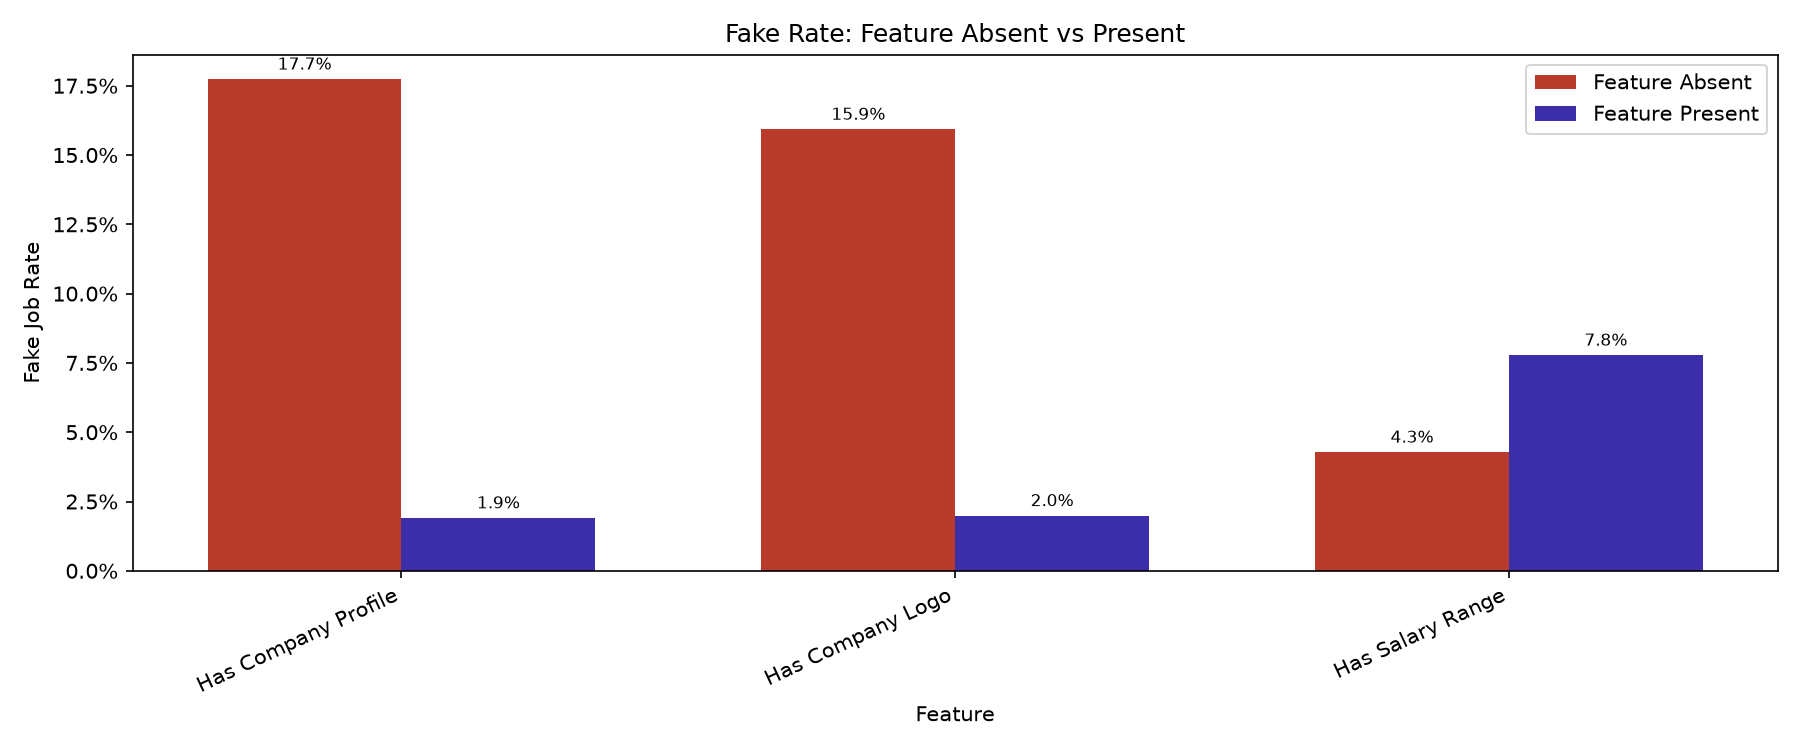
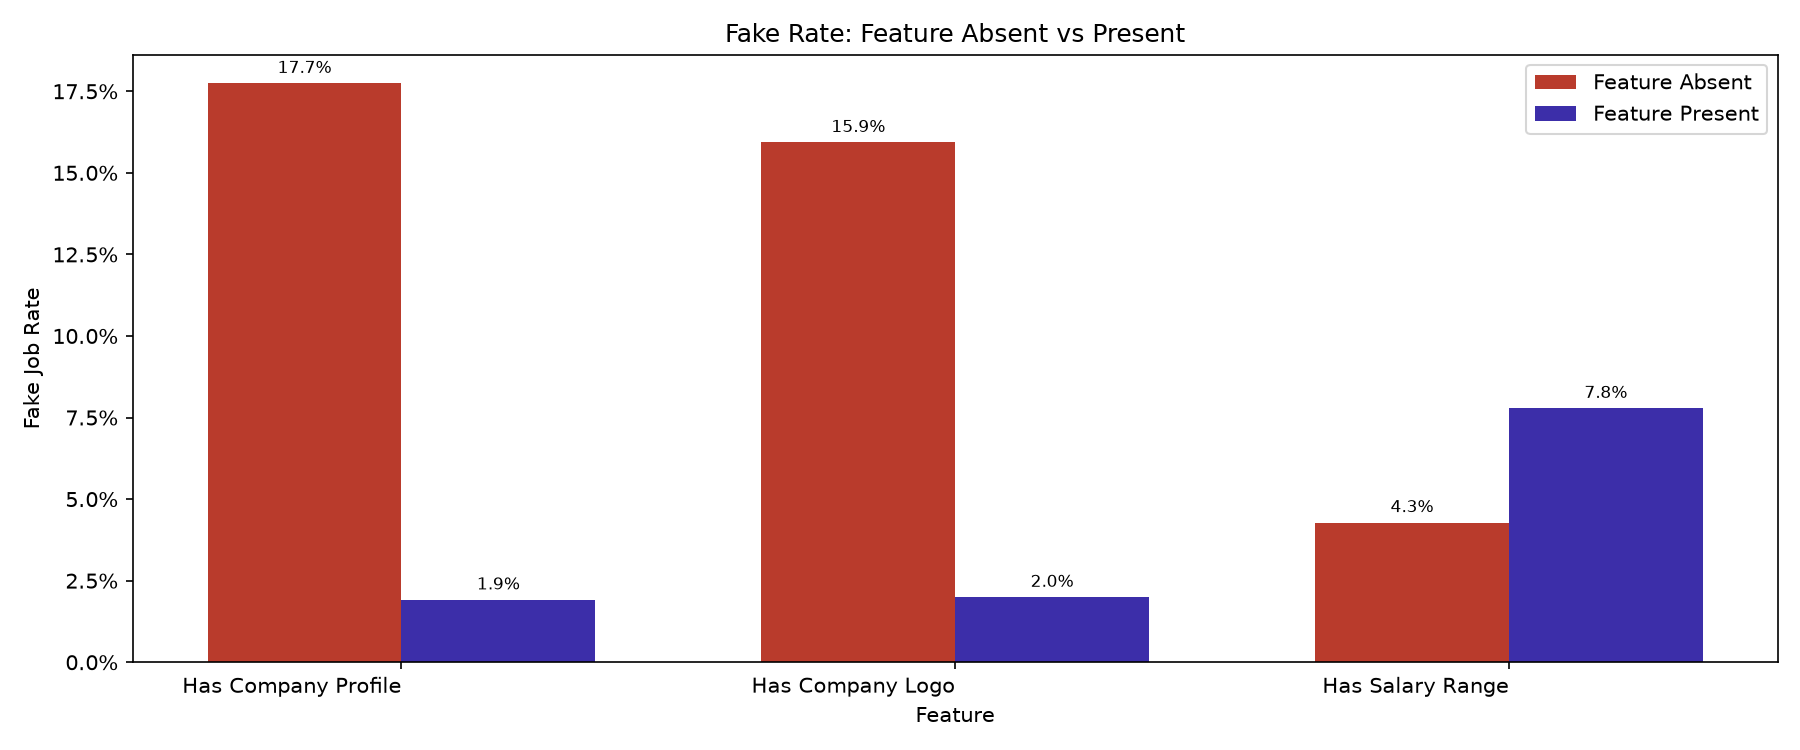
Add DistilBERT fine-tuning notebook and integrate fine-tuned model alongside baseline in app.py

diff --git a/app.py b/app.py
@@ -8,7 +8,11 @@ from src.features import (
     SUSPICIOUS_TITLE_KEYWORDS,
     SUSPICIOUS_DESC_KEYWORDS
 )
-from src.model import load_baseline_model, predict_baseline
+from src.model import (
+    load_baseline_model, predict_baseline,
+    load_distilbert_model, predict_distilbert,
+    load_optimal_threshold, build_distilbert_text
+)
 from src.explainer import (
     find_red_flags,
     highlight_text,
@@ -20,17 +24,17 @@ from src.explainer import (
 # ──────────────────────────────────────────────────────────────
 
 st.set_page_config(
-    page_title="JobGuard",
+    page_title="Fake Job Detector",
     page_icon="🛡️",
     layout="centered"
 )
 
 # ──────────────────────────────────────────────────────────────
-# Load Model
+# Load Models
 # ──────────────────────────────────────────────────────────────
 
 @st.cache_resource
-def get_model():
+def get_baseline_model():
     try:
         model, tfidf, scaler = load_baseline_model()
         return model, tfidf, scaler
@@ -38,14 +42,25 @@ def get_model():
         st.error(str(e))
         st.stop()
 
-lr_model, tfidf_vec, scaler = get_model()
[email redacted]_resource
+def get_distilbert_model():
+    # Downloads ~250MB from HuggingFace Hub on first run, then caches
+    # for the rest of the app's lifetime (not re-downloaded per click).
+    model, tokenizer = load_distilbert_model()
+    threshold = load_optimal_threshold()
+    return model, tokenizer, threshold
+
+lr_model, tfidf_vec, scaler = get_baseline_model()
+
+with st.spinner("Loading DistilBERT model from HuggingFace Hub ..."):
+    bert_model, bert_tokenizer, bert_threshold = get_distilbert_model()
 
 # ──────────────────────────────────────────────────────────────
 # UI
 # ──────────────────────────────────────────────────────────────
 
-st.title("🛡️ JobGuard")
-st.caption("Detect Fake Job Postings using Machine Learning")
+st.title("🛡️ Fake Job Detector")
+st.caption("Detect Fake Job Postings")
 
 st.divider()
 
@@ -61,6 +76,18 @@ job_description = st.text_area(
     height=250,
     placeholder="Paste the full job description..."
 )
+
+with st.expander("➕ Optional: Company Profile & Requirements (improves accuracy)"):
+    job_company_profile = st.text_area(
+        "Company Profile",
+        height=100,
+        placeholder="Paste the company's 'About Us' text, if listed..."
+    )
+    job_requirements = st.text_area(
+        "Requirements",
+        height=100,
+        placeholder="Paste the listed job requirements, if any..."
+    )
 
 st.divider()
 
@@ -108,18 +135,17 @@ if analyze:
             "Please provide a job title and a more detailed description."
         )
     else:
-        # Detect suspicious keywords
+        # ── Baseline model (TF-IDF + Logistic Regression) ──
+
         suspicious_title = has_suspicious_keywords(
             job_title,
             SUSPICIOUS_TITLE_KEYWORDS
         )
-
         suspicious_desc = has_suspicious_keywords(
             job_description,
             SUSPICIOUS_DESC_KEYWORDS
         )
 
-        # Build dataframe matching training schema
         row = pd.DataFrame([{
             "title": job_title,
             "company_profile": (
@@ -139,21 +165,17 @@ if analyze:
             "telecommuting": int(telecommuting)
         }])
 
-        # Generate structured features
         struct_arr = extract_structured_features(
             row
         ).iloc[0].values.copy()  # .copy() avoids "read-only array" errors
         struct_arr = struct_arr.astype(float)
 
-        # Overwrite auto-generated suspicious flags
         struct_arr[-2] = suspicious_title
         struct_arr[-1] = suspicious_desc
 
-        # Clean text
         cleaned_text = clean_text(full_text)
 
-        # Predict
-        prob = predict_baseline(
+        baseline_prob = predict_baseline(
             cleaned_text,
             struct_arr,
             lr_model,
@@ -161,29 +183,48 @@ if analyze:
             scaler
         )
 
-        # Risk level
-        level, color = risk_level(prob)
+        # ── DistilBERT model ──
+        bert_text = build_distilbert_text(
+            title=job_title,
+            company_profile=job_company_profile,
+            requirements=job_requirements,
+            description=job_description
+        )
+        bert_prob = predict_distilbert(bert_text, bert_model, bert_tokenizer)
 
         st.divider()
         st.subheader("🔎 Analysis Result")
 
-        if prob >= 0.5:
-            st.error(
-                f"⚠️ Likely FAKE Job Posting ({prob*100:.1f}% confidence)"
-            )
-        else:
-            st.success(
-                f"✅ Appears Legitimate ({(1-prob)*100:.1f}% confidence)"
-            )
+        # Side-by-side model comparison
+        col_a, col_b = st.columns(2)
 
-        st.progress(
-            float(prob),
-            text=f"Fake Probability: {prob*100:.1f}%"
+        with col_a:
+            st.markdown("**Baseline (TF-IDF + LR)**")
+            if baseline_prob >= 0.5:
+                st.error(f"⚠️ Likely FAKE ({baseline_prob*100:.1f}%)")
+            else:
+                st.success(f"✅ Likely Real ({(1-baseline_prob)*100:.1f}%)")
+            st.progress(float(baseline_prob), text=f"Fake prob: {baseline_prob*100:.1f}%")
+
+        with col_b:
+            st.markdown("**DistilBERT (fine-tuned)**")
+            if bert_prob >= bert_threshold:
+                st.error(f"⚠️ Likely FAKE ({bert_prob*100:.1f}%)")
+            else:
+                st.success(f"✅ Likely Real ({(1-bert_prob)*100:.1f}%)")
+            st.progress(float(bert_prob), text=f"Fake prob: {bert_prob*100:.1f}%")
+
+        st.caption(
+            f"DistilBERT uses an optimized decision threshold of {bert_threshold:.2f} "
+            f"(tuned for best F1 during training), not the default 0.5."
         )
 
-        st.markdown(
-            f"### Risk Level: :{color}[{level}]"
-        )
+        prob = bert_prob
+        level, color = risk_level(prob)
+
+        st.divider()
+        st.markdown(f"### Overall Risk Level: :{color}[{level}]")
+        st.caption("Based on the DistilBERT model's prediction (higher validation F1 than baseline).")
 
         st.divider()
 
@@ -205,7 +246,7 @@ if analyze:
             st.subheader("📄 Highlighted Text")
             st.markdown(
                 highlighted_text,
-                unsafe_allow_html=True  # Changed to True so your highlight html spans actually render color
+                unsafe_allow_html=True  
             )
         else:
             st.info(
@@ -215,7 +256,7 @@ if analyze:
         st.divider()
         st.subheader("💡 Safety Tips")
 
-        if prob >= 0.5:
+        if prob >= bert_threshold:
             st.markdown("""
 * Never pay money to get a job.
 * Verify the company on LinkedIn.
@@ -238,5 +279,6 @@ if analyze:
 
 st.divider()
 st.caption(
-    "JobGuard • TF-IDF + Logistic Regression + Structured Features"
+    "TF-IDF + Logistic Regression baseline (F1 0.82) • "
+    "DistilBERT fine-tuned (F1 0.91) • Structured Features"
 )

diff --git a/src/model.py b/src/model.py
@@ -1,11 +1,12 @@
 """
-Model loading and inference for JobGuard's baseline
-(TF-IDF + structured features + Logistic Regression).
+Model loading and inference for Fake_Job.
 
-Artifacts expected (produced by Baseline_Model.ipynb, cell 9):
-    src/lr_model.pkl   - trained sklearn LogisticRegression
-    src/tfidf.pkl      - fitted TfidfVectorizer
-    src/scaler.pkl     - fitted MaxAbsScaler (for structured features)
+Two models are supported:
+1. Baseline: TF-IDF + structured features + Logistic Regression
+    (artifacts produced by Baseline_Model.ipynb, cell 9, stored locally
+    in src/lr_model.pkl, tfidf.pkl, scaler.pkl)
+2. DistilBERT: fine-tuned transformer, weights hosted on HuggingFace
+    Hub at Yuvraj-Bansal/fake_job-distilbert
 """
 
 import os
@@ -13,12 +14,17 @@ import os
 import joblib
 import numpy as np
 import scipy.sparse as sp
+import torch
+from transformers import DistilBertTokenizerFast, DistilBertForSequenceClassification
 
 _ARTIFACT_DIR = os.path.dirname(os.path.abspath(__file__))
 
 LR_MODEL_PATH = os.path.join(_ARTIFACT_DIR, "lr_model.pkl")
 TFIDF_PATH = os.path.join(_ARTIFACT_DIR, "tfidf.pkl")
 SCALER_PATH = os.path.join(_ARTIFACT_DIR, "scaler.pkl")
+
+HF_MODEL_NAME = "Yuvraj-Bansal/fake_job-distilbert"
+DISTILBERT_DEFAULT_THRESHOLD = 0.55  
 
 
 def load_baseline_model():
@@ -75,3 +81,60 @@ def predict_baseline(cleaned_text: str, struct_arr, model, tfidf, scaler) -> flo
 
     prob = model.predict_proba(X)[0, 1]
     return float(prob)
+
+
+# ──────────────────────────────────────────────────────────────
+# DistilBERT (HuggingFace Hub)
+# ──────────────────────────────────────────────────────────────
+
+def load_distilbert_model():
+    """Download (and cache) the fine-tuned DistilBERT model + tokenizer
+    from HuggingFace Hub. First call downloads ~250MB; subsequent calls
+    on the same machine/container use the local HF cache.
+    """
+    tokenizer = DistilBertTokenizerFast.from_pretrained(HF_MODEL_NAME)
+    model = DistilBertForSequenceClassification.from_pretrained(HF_MODEL_NAME)
+    model.eval() 
+    return model, tokenizer
+
+
+def load_optimal_threshold(hf_model_name: str = HF_MODEL_NAME,default: float = DISTILBERT_DEFAULT_THRESHOLD) -> float:
+    """Download best_threshold.txt from the Hub repo (saved during training's
+    threshold sweep) and return it as a float. Falls back to `default`
+    (the known training-time value) if the file can't be fetched.
+    """
+    from huggingface_hub import hf_hub_download
+    try:
+        path = hf_hub_download(repo_id=hf_model_name, filename="best_threshold.txt")
+        with open(path) as f:
+            return float(f.read().strip())
+    except Exception:
+        return default
+
+
+def build_distilbert_text(title: str, company_profile: str, requirements: str,description: str) -> str:
+    return (
+        f"Title: {title or ''} [SEP] "
+        f"Profile: {company_profile or ''} [SEP] "
+        f"Requirements: {requirements or ''} [SEP] "
+        f"Description: {description or ''}"
+    )
+
+
+def predict_distilbert(text: str, model, tokenizer) -> float:
+    """Returns the predicted probability that the posting is FAKE (class 1).
+    Compare against load_optimal_threshold() — NOT a hardcoded 0.5 — to
+    convert this probability into a Real/Fake decision.
+    """
+    inputs = tokenizer(
+        text,
+        return_tensors="pt",
+        truncation=True,
+        padding=True,
+        max_length=256,
+    )
+    with torch.no_grad():
+        outputs = model(**inputs)
+        probs = torch.softmax(outputs.logits, dim=1)
+    return float(probs[0, 1].item())
+